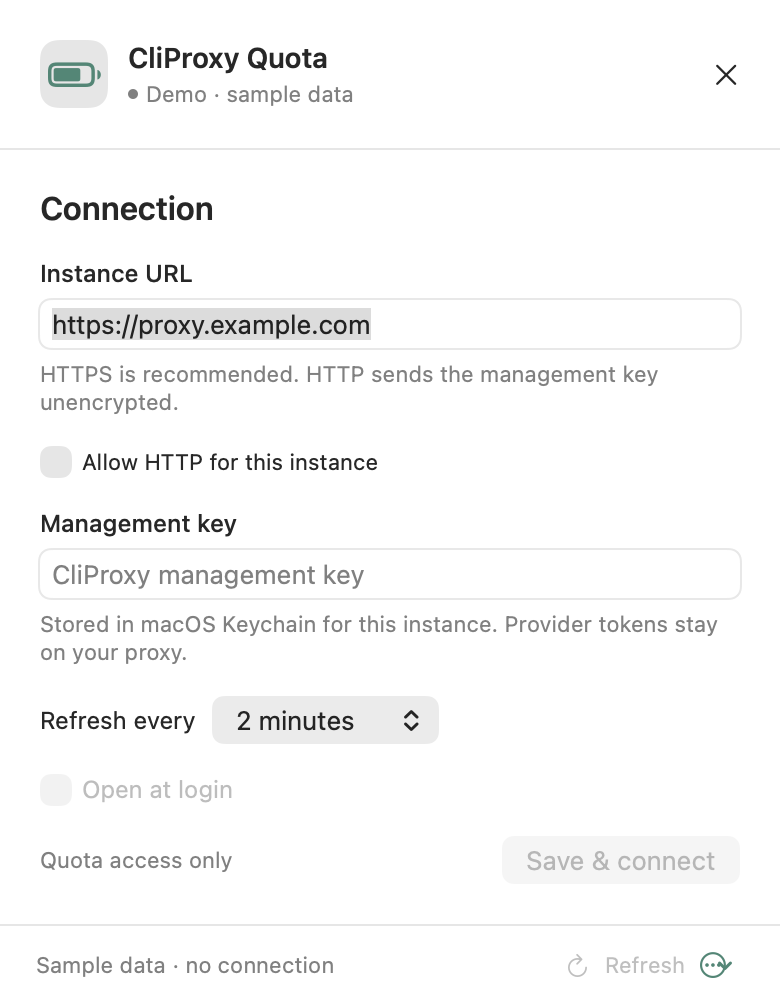
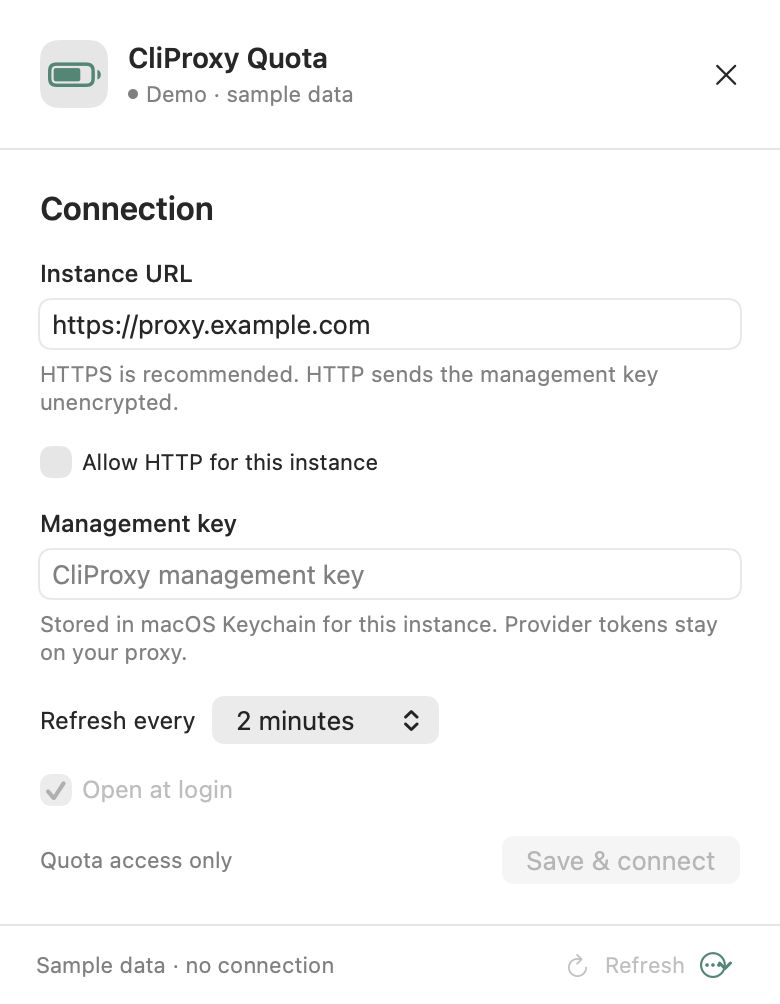
Size quota popovers to content and available screen height

Changed region(s): [[0.0615, 0.3088, 0.4923, 0.3396], [0.0615, 0.7719, 0.0923, 0.8028]]

diff --git a/Sources/CliProxyQuota/App.swift b/Sources/CliProxyQuota/App.swift
@@ -15,10 +15,20 @@ import QuotaCore
     func applicationDidFinishLaunching(_ notification: Notification) {
         NSApp.setActivationPolicy(.accessory)
         let arguments = ProcessInfo.processInfo.arguments
+        if arguments.contains("--verify-layout") {
+            Task { @MainActor in
+                do { try await Screenshots.verifyLayout() }
+                catch { fputs("Layout verification failed: \(error)\n", stderr); exit(1) }
+                NSApp.terminate(nil)
+            }
+            return
+        }
         if let index = arguments.firstIndex(of: "--screenshots"), arguments.count > index + 1 {
-            do { try Screenshots.write(to: URL(fileURLWithPath: arguments[index + 1], isDirectory: true)) }
-            catch { fputs("Screenshot rendering failed: \(error)\n", stderr); exit(1) }
-            NSApp.terminate(nil)
+            Task { @MainActor in
+                do { try await Screenshots.write(to: URL(fileURLWithPath: arguments[index + 1], isDirectory: true)) }
+                catch { fputs("Screenshot rendering failed: \(error)\n", stderr); exit(1) }
+                NSApp.terminate(nil)
+            }
             return
         }
         store = QuotaStore(demo: arguments.contains("--demo"))
@@ -28,7 +38,11 @@ import QuotaCore
         popover = NSPopover()
         popover.behavior = .transient
         popover.delegate = self
-        popover.contentViewController = NSHostingController(rootView: QuotaPopover(store: store))
+        let controller = NSHostingController(rootView: QuotaPopover(store: store))
+        controller.sizingOptions = [.preferredContentSize]
+        popover.contentViewController = controller
+        NotificationCenter.default.addObserver(self, selector: #selector(updateScreenLimit),
+            name: NSApplication.didChangeScreenParametersNotification, object: nil)
         store.onChange = { [weak self] in self?.updateStatus() }
         updateStatus()
         statusTimer = Timer.scheduledTimer(withTimeInterval: 20, repeats: true) { [weak self] _ in
@@ -54,16 +68,22 @@ import QuotaCore
     @objc private func togglePopover() {
         if popover.isShown { popover.performClose(nil) }
         else if let button = item.button {
+            // visibleFrame excludes the menu bar and Dock on the display hosting the tray item.
+            updateScreenLimit()
             NSApp.activate(ignoringOtherApps: true)
             popover.show(relativeTo: button.bounds, of: button, preferredEdge: .minY)
             popover.contentViewController?.view.window?.makeKey()
         }
     }
+    @objc private func updateScreenLimit() {
+        let screen = item.button?.window?.screen ?? NSScreen.main
+        store.maximumPopoverHeight = (screen?.visibleFrame.height ?? 800) - 24
+    }
 }
 
 /// Render the actual native views with synthetic data, without capturing the user's desktop.
 @MainActor enum Screenshots {
-    static func write(to directory: URL) throws {
+    static func write(to directory: URL) async throws {
         try FileManager.default.createDirectory(at: directory, withIntermediateDirectories: true)
         for (name, tab, settings, dark) in [
             ("overview", "All accounts", false, false),
@@ -73,25 +93,67 @@ import QuotaCore
         ] {
             let store = QuotaStore(demo: true)
             store.selectedView = tab; store.showSettings = settings
-            let view = QuotaPopover(store: store, expandedInitially: tab == "Per account" ? ["demo-codex-1"] : []).environment(\.colorScheme, dark ? .dark : .light)
-            let controller = NSHostingController(rootView: view)
-            let fitting = controller.view.fittingSize
-            let size = NSSize(width: 390, height: max(200, fitting.height))
-            let window = NSWindow(contentRect: NSRect(origin: .zero, size: size), styleMask: [.borderless], backing: .buffered, defer: false)
-            window.appearance = NSAppearance(named: dark ? .darkAqua : .aqua)
-            window.contentViewController = controller
-            window.setContentSize(size)
-            controller.view.frame = NSRect(origin: .zero, size: size)
-            window.orderFrontRegardless()
-            controller.view.layoutSubtreeIfNeeded()
-            // Give AppKit a layout/display pass before reading the native backing store.
-            RunLoop.current.run(until: Date().addingTimeInterval(0.25))
+            let controller = NSHostingController(rootView: QuotaPopover(store: store,
+                expandedInitially: tab == "Per account" ? ["demo-codex-1"] : [])
+                .environment(\.colorScheme, dark ? .dark : .light))
+            let window = await prepare(controller, dark: dark)
             guard let bitmap = controller.view.bitmapImageRepForCachingDisplay(in: controller.view.bounds) else {
                 throw CocoaError(.fileWriteUnknown)
             }
             controller.view.cacheDisplay(in: controller.view.bounds, to: bitmap)
             guard let data = bitmap.representation(using: .png, properties: [:]) else { throw CocoaError(.fileWriteUnknown) }
             try data.write(to: directory.appendingPathComponent("\(name).png"))
+            window.orderOut(nil)
+        }
+    }
+    private static func prepare<V: View>(_ controller: NSHostingController<V>, dark: Bool = false) async -> NSWindow {
+        let window = NSWindow(contentRect: NSRect(x: 0, y: 0, width: 390, height: 600),
+            styleMask: [.borderless], backing: .buffered, defer: false)
+        window.appearance = NSAppearance(named: dark ? .darkAqua : .aqua)
+        window.contentViewController = controller
+        controller.view.frame = NSRect(x: 0, y: 0, width: 390, height: 600)
+        window.orderFrontRegardless()
+        await settle(controller, window: window)
+        return window
+    }
+    private static func settle<V: View>(_ controller: NSHostingController<V>, window: NSWindow) async {
+        // Let content and chrome measurements settle, including after account expansion or tab changes.
+        for _ in 0..<5 {
+            controller.view.layoutSubtreeIfNeeded()
+            try? await Task.sleep(for: .milliseconds(80))
+            let height = controller.view.fittingSize.height
+            window.setContentSize(NSSize(width: 390, height: max(1, height)))
+            controller.view.frame = NSRect(x: 0, y: 0, width: 390, height: max(1, height))
+        }
+        controller.view.layoutSubtreeIfNeeded()
+    }
+    static func verifyLayout() async throws {
+        func check(_ condition: Bool, _ message: String) throws {
+            if !condition { throw NSError(domain: "PopoverLayout", code: 1, userInfo: [NSLocalizedDescriptionKey: message]) }
+        }
+        for tab in ["All accounts", "Per account"] {
+            let store = QuotaStore(demo: true)
+            store.maximumPopoverHeight = 1200
+            store.selectedView = tab
+            let controller = NSHostingController(rootView: QuotaPopover(store: store,
+                expandedInitially: Set(store.quotas.map(\.id))))
+            let window = await prepare(controller)
+            let natural = controller.view.fittingSize.height
+            try check(natural > 500 && natural < 1200, "\(tab) must fit full expanded content on a tall display: \(natural)")
+            store.maximumPopoverHeight = 500
+            await settle(controller, window: window)
+            let capped = controller.view.fittingSize.height
+            try check(abs(capped - 500) < 2, "\(tab) must scroll at the screen boundary: \(capped)")
+            store.maximumPopoverHeight = 1200
+            await settle(controller, window: window)
+            let restored = controller.view.fittingSize.height
+            try check(abs(restored - natural) < 2, "\(tab) must grow back when more screen space is available")
+            // Changing tabs must remeasure the chrome as well as the list.
+            store.selectedView = tab == "All accounts" ? "Per account" : "All accounts"
+            await settle(controller, window: window)
+            let switched = controller.view.fittingSize.height
+            try check(switched > 500 && switched < 1200, "Tab switch must retain natural content sizing")
+            print("\(tab): full \(Int(natural))pt; capped \(Int(capped))pt; restored \(Int(restored))pt; tab switch \(Int(switched))pt")
             window.orderOut(nil)
         }
     }

diff --git a/Sources/CliProxyQuota/Views.swift b/Sources/CliProxyQuota/Views.swift
@@ -7,10 +7,16 @@ private let quotaGreen = Color(red: 0.26, green: 0.53, blue: 0.46)
 struct QuotaPopover: View {
     @ObservedObject var store: QuotaStore
     @State private var expanded = Set<String>()
+    @State private var listHeight: CGFloat = 440
+    @State private var chromeHeight: CGFloat = 270
+    private var listViewportHeight: CGFloat {
+        min(listHeight, max(1, store.maximumPopoverHeight - chromeHeight))
+    }
     init(store: QuotaStore, expandedInitially: Set<String> = []) {
         self.store = store; _expanded = State(initialValue: expandedInitially)
     }
     var body: some View {
+        let occupiedListHeight = (!store.showSettings && !store.quotas.isEmpty) ? listViewportHeight : 0
         VStack(spacing: 0) {
             header
             Divider()
@@ -33,8 +39,15 @@ struct QuotaPopover: View {
                         ScrollView {
                             VStack(alignment: .leading, spacing: 0) {
                                 if store.selectedView == "All accounts" { overview } else { accountList }
-                            }.frame(maxWidth: .infinity, alignment: .leading)
-                        }.frame(maxHeight: 440)
+                            }
+                            .frame(maxWidth: .infinity, alignment: .leading)
+                            .fixedSize(horizontal: false, vertical: true)
+                            .onGeometryChange(for: CGFloat.self) { $0.size.height } action: { height in
+                                if height > 0 && abs(listHeight - height) > 0.5 { listHeight = height }
+                            }
+                        }
+                        .frame(height: listViewportHeight)
+                        .scrollDisabled(listHeight <= listViewportHeight + 0.5)
                         if store.selectedView == "All accounts" {
                             Text("Averages of reporting accounts, grouped by matching quota. Different limits stay separate.")
                                 .font(.system(size: 11)).foregroundStyle(.secondary).fixedSize(horizontal: false, vertical: true)
@@ -54,6 +67,13 @@ struct QuotaPopover: View {
         .frame(width: 390)
         .background(Color(nsColor: .windowBackgroundColor))
         .tint(quotaGreen)
+        .onGeometryChange(for: CGFloat.self) { geometry in
+            geometry.size.height - occupiedListHeight
+        } action: { height in
+            if !store.showSettings && !store.quotas.isEmpty && abs(chromeHeight - height) > 0.5 {
+                chromeHeight = height
+            }
+        }
         .onChange(of: store.selectedView) { _, _ in store.onChange?() }
     }
     private var header: some View {

diff --git a/Sources/CliProxyQuota/QuotaStore.swift b/Sources/CliProxyQuota/QuotaStore.swift
@@ -9,6 +9,7 @@ import QuotaCore
     @Published var apiVersion: String?
     @Published var showSettings = false
     @Published var selectedView = "All accounts"
+    @Published var maximumPopoverHeight: CGFloat = (NSScreen.main?.visibleFrame.height ?? 800) - 24
     @Published var endpoint: String
     @Published var showPercentage: Bool { didSet { if !demo { UserDefaults.standard.set(showPercentage, forKey: "showPercentage") }; onChange?() } }
     @Published var pin: String { didSet { if !demo { UserDefaults.standard.set(pin, forKey: "pin") }; onChange?() } }

diff --git a/README.md b/README.md
@@ -19,6 +19,7 @@ A small, native macOS app for [CLIProxyAPI](https://github.com/router-for-me/CLI
 - **Remaining usage**, with progress bars and reset countdowns for every reported limit.
 - **All accounts** groups matching provider quotas and shows the average remaining percentage.
 - **Per account** expands into individual windows, including weekly and model-specific limits.
+- **Fits your screen**: both views grow to show all content, scrolling only when the popover would exceed the available display height.
 - **Pin a quota** to show its remaining percentage directly in the menu bar.
 - **Automatic refresh** every 1, 2, 5, or 10 minutes, plus manual refresh.
 - **Configurable connection** with the management password stored in macOS Keychain, scoped to the instance URL.
@@ -112,6 +113,7 @@ API references: [current Management API](https://github.com/router-for-me/CLIPro
 ```sh
 swift test                      # quota math, parsing, aggregation, and mocked HTTP requests
 swift build                     # debug build
+.build/debug/CliProxyQuota --verify-layout # native checks for natural height, overflow, and tab changes
 ./scripts/build-app.sh           # release app bundle + icon + local signature
 ./scripts/screenshots.sh         # render native views using synthetic data
 open "build/CliProxy Quota.app" --args --demo --show
